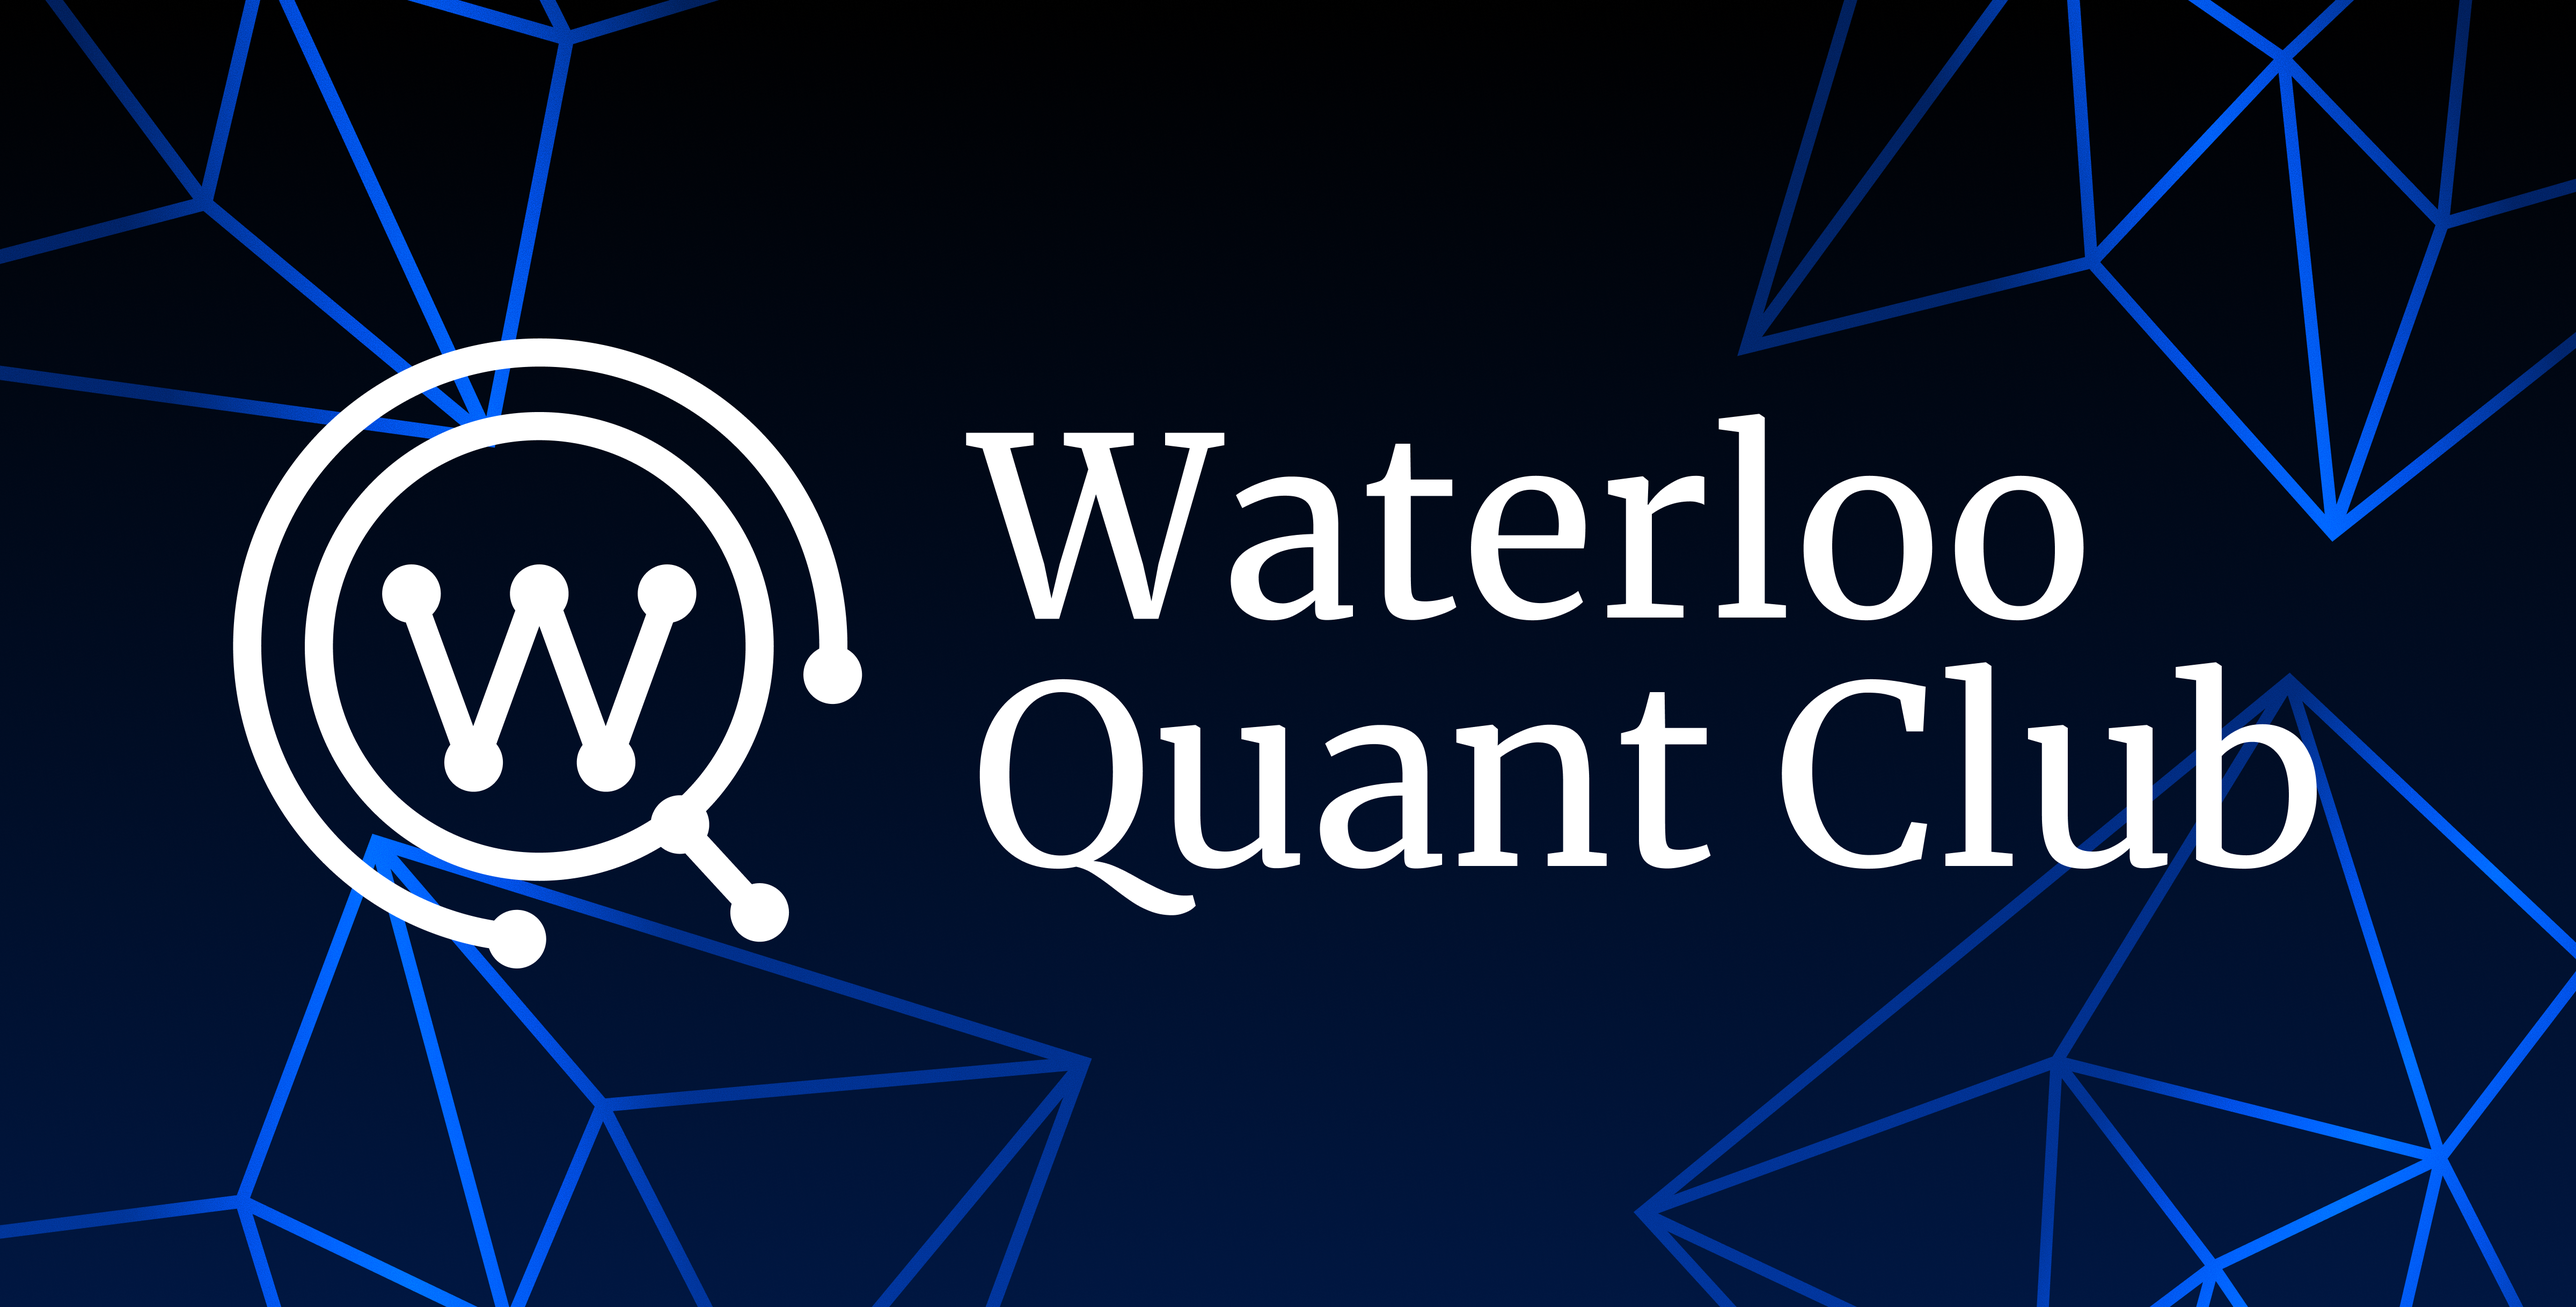
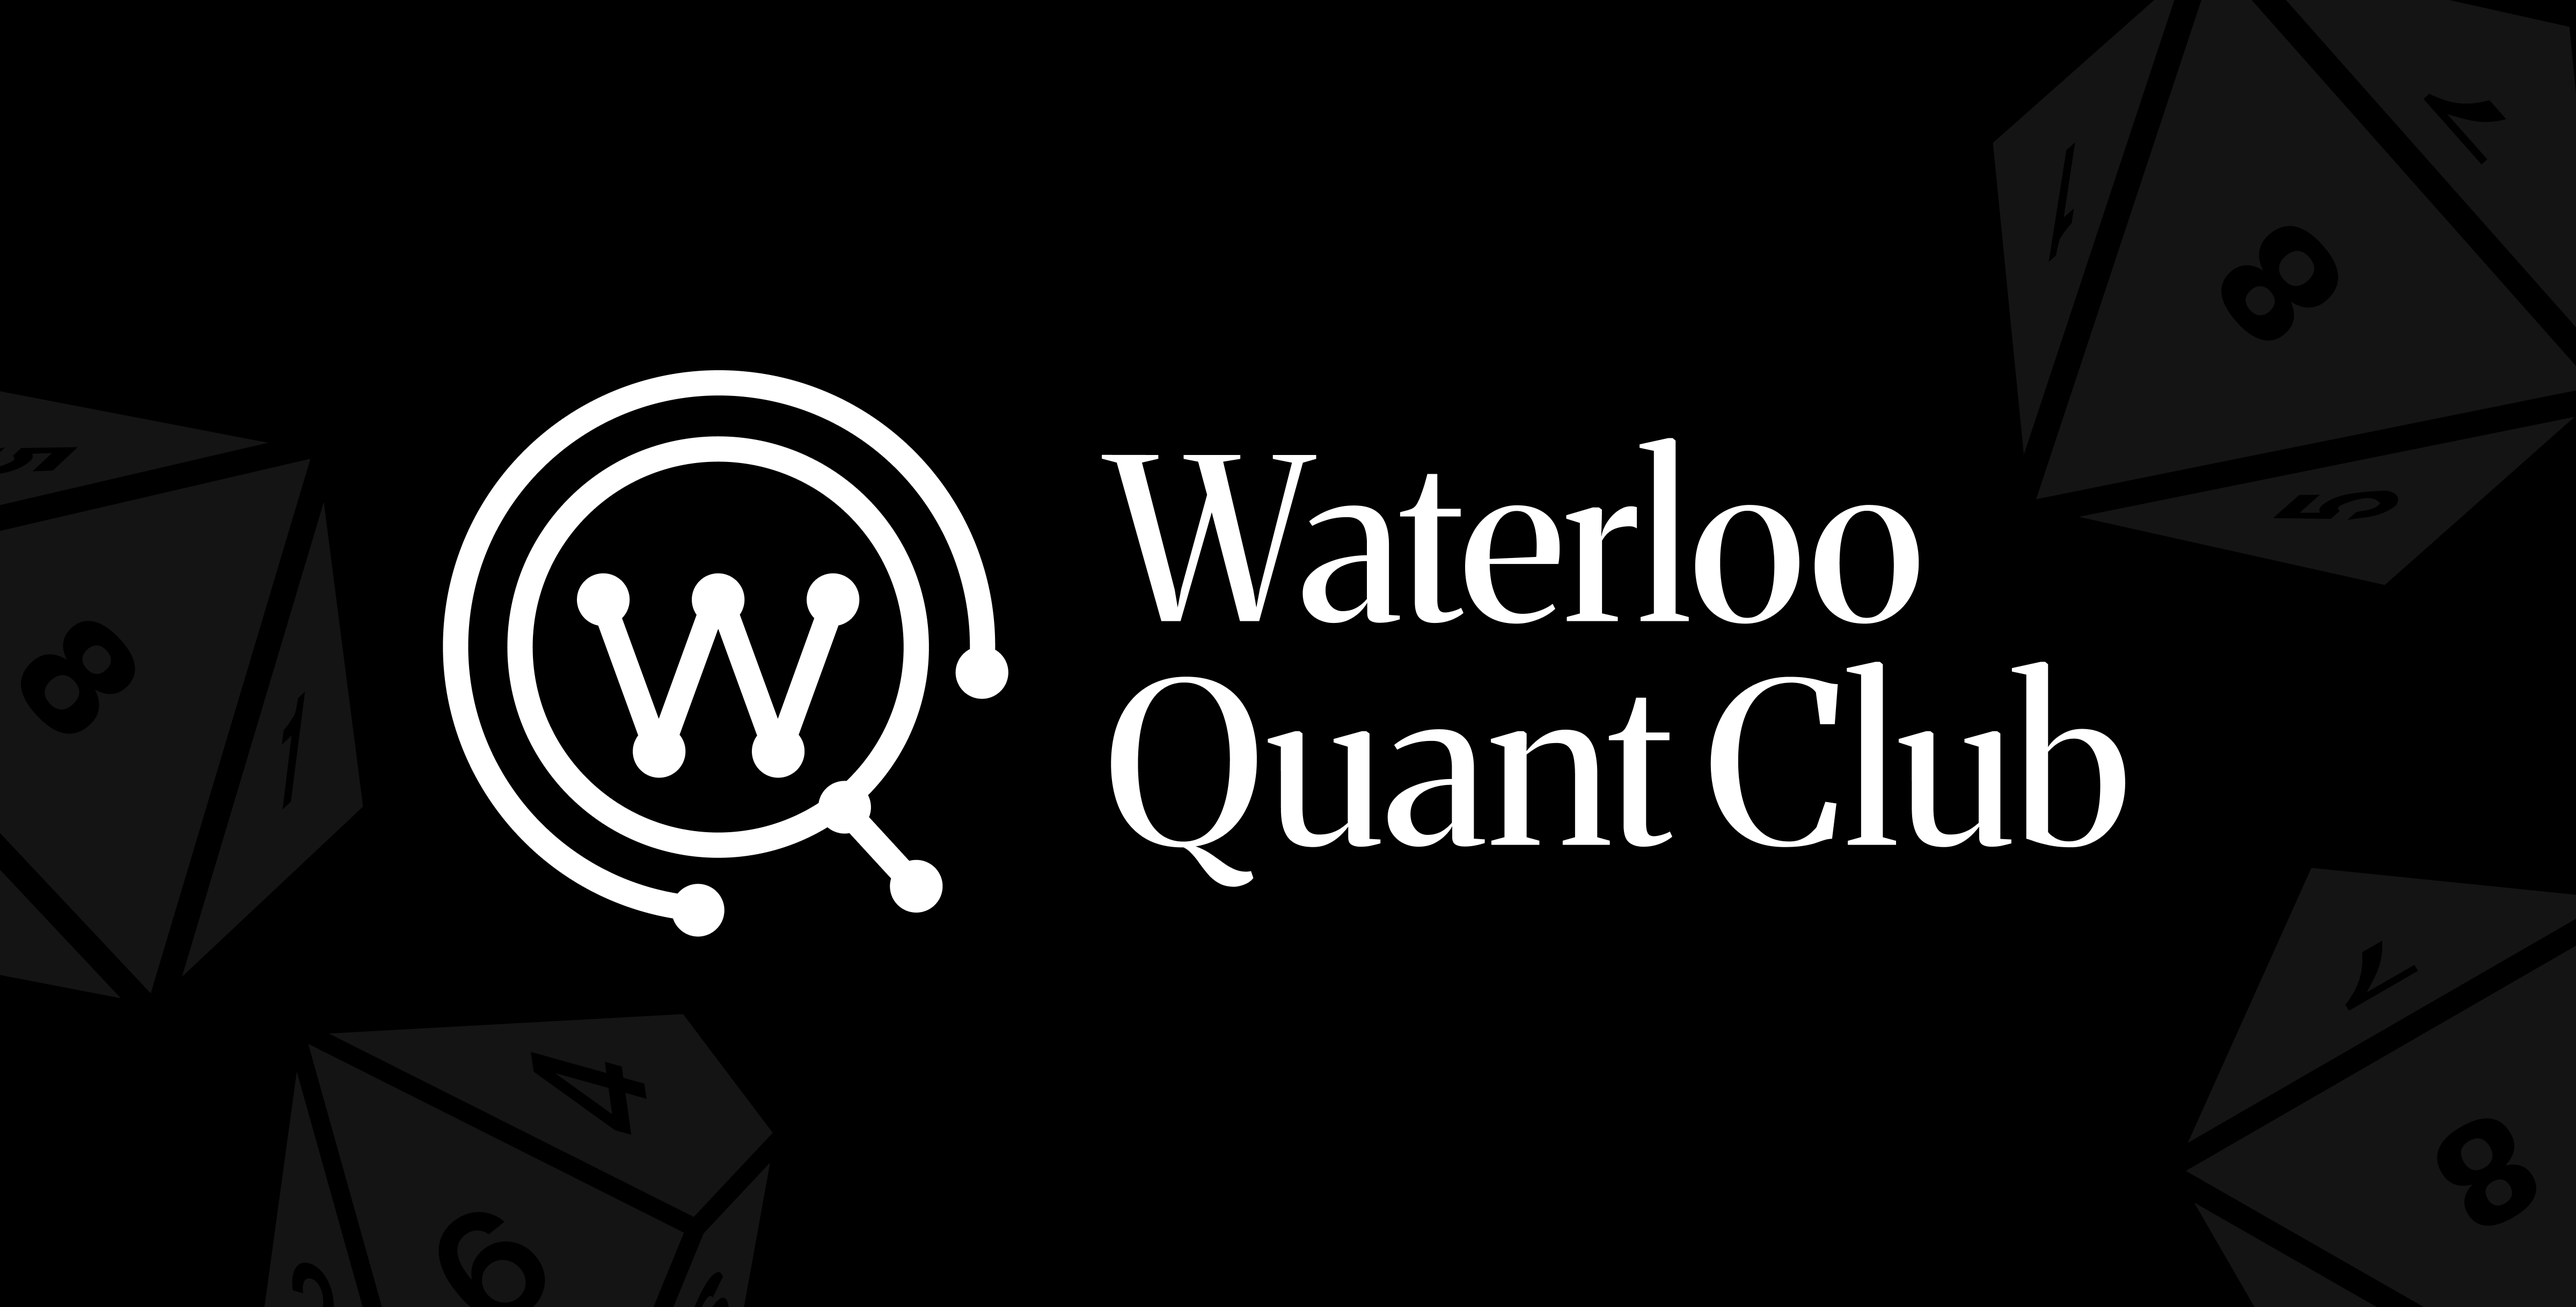
updated wqc page

diff --git a/src/components/Gallery.tsx b/src/components/Gallery.tsx
@@ -2,15 +2,16 @@
 import React, { useState, useRef, useEffect } from "react";
 import Image from "next/image";
 import { useSwipeable } from "react-swipeable";
-import Left from "@/assets/left.svg"; 
-import Right from "@/assets/right.svg"; 
+import Left from "@/assets/left.svg";
+import Right from "@/assets/right.svg";
 import X from "@/assets/x.svg";
 
 interface ImageGalleryProps {
   images: string[];
+  columns?: 2 | 3;
 }
 
-const ImageGallery: React.FC<ImageGalleryProps> = ({ images }) => {
+const ImageGallery: React.FC<ImageGalleryProps> = ({ images, columns = 3 }) => {
   const [selectedIndex, setSelectedIndex] = useState<number | null>(null);
   const [transitioning, setTransitioning] = useState<boolean>(false);
   const carouselRef = useRef<HTMLDivElement>(null);
@@ -27,7 +28,8 @@ const ImageGallery: React.FC<ImageGalleryProps> = ({ images }) => {
     if (selectedIndex !== null && !transitioning) {
       setTransitioning(true);
       setTimeout(() => {
-        const prevIndex = selectedIndex === 0 ? images.length - 1 : selectedIndex - 1;
+        const prevIndex =
+          selectedIndex === 0 ? images.length - 1 : selectedIndex - 1;
         setSelectedIndex(prevIndex);
         setTransitioning(false);
       }, 300);
@@ -38,7 +40,8 @@ const ImageGallery: React.FC<ImageGalleryProps> = ({ images }) => {
     if (selectedIndex !== null && !transitioning) {
       setTransitioning(true);
       setTimeout(() => {
-        const nextIndex = selectedIndex === images.length - 1 ? 0 : selectedIndex + 1;
+        const nextIndex =
+          selectedIndex === images.length - 1 ? 0 : selectedIndex + 1;
         setSelectedIndex(nextIndex);
         setTransitioning(false);
       }, 300);
@@ -62,7 +65,9 @@ const ImageGallery: React.FC<ImageGalleryProps> = ({ images }) => {
   }, [selectedIndex]);
 
   // Close modal if clicking outside the image or buttons
-  const handleOverlayClick = (e: React.MouseEvent<HTMLDivElement, MouseEvent>) => {
+  const handleOverlayClick = (
+    e: React.MouseEvent<HTMLDivElement, MouseEvent>,
+  ) => {
     if (e.target === e.currentTarget) {
       closeImage();
     }
@@ -78,7 +83,11 @@ const ImageGallery: React.FC<ImageGalleryProps> = ({ images }) => {
   return (
     <div>
       {/* Responsive Horizontal Scroll on Mobile, Grid on Larger Screens */}
-      <div className="flex lg:grid lg:grid-cols-3 scrollbar-hide gap-4 items-center overflow-x-auto lg:overflow-visible flex-nowrap lg:flex-wrap">
+      <div
+        className={`flex lg:grid ${
+          columns === 2 ? "lg:grid-cols-2" : "lg:grid-cols-3"
+        } scrollbar-hide gap-4 items-center overflow-x-auto lg:overflow-visible flex-nowrap lg:flex-wrap`}
+      >
         {images.map((image, index) => (
           <div
             key={index}
@@ -113,9 +122,14 @@ const ImageGallery: React.FC<ImageGalleryProps> = ({ images }) => {
             <X className="h-4 w-4 md:h-5 md:w-5 fill-current" />
           </button>
 
-          <div className="relative w-full lg:w-auto overflow-hidden" ref={carouselRef}>
+          <div
+            className="relative w-full lg:w-auto overflow-hidden"
+            ref={carouselRef}
+          >
             {/* Image with smooth transition */}
-            <div className={`transition-opacity duration-500 ${transitioning ? "opacity-0" : "opacity-100"}`}>
+            <div
+              className={`transition-opacity duration-500 ${transitioning ? "opacity-0" : "opacity-100"}`}
+            >
               <Image
                 src={images[selectedIndex]}
                 alt={`Image ${selectedIndex}`}

diff --git a/src/app/design/wqc/page.tsx b/src/app/design/wqc/page.tsx
@@ -62,6 +62,17 @@ const fallInstagram = [
   "/wqc-fall-ig-5.png",
 ];
 
+const fall26Instagram = [
+  "/wqc_f26_1.png",
+  "/wqc_f26_2.png",
+  "/wqc_f26_3.png",
+  "/wqc_f26_4.png",
+];
+
+const fall26Assets = ["/wqc_f26_assets.png"];
+
+const fall26Sponsors = ["/wqc_sponsors_old.png", "/wqc_sponsors_new.png"];
+
 export default function WaterlooQuantClub() {
   return (
     <div className="relative">
@@ -83,6 +94,74 @@ export default function WaterlooQuantClub() {
             </p>
           </div>
         </FadeInSection>
+
+        {/* FALL 2026 */}
+        <ProjectSection
+          eyebrow="Fall 2026"
+          title="Evolving the Visual Identity"
+        >
+          <div className="space-y-16">
+            {/* Description */}
+            <div className="max-w-3xl mx-auto text-center">
+              <p className="text-white/75">
+                Expanded the club's visual identity with a more playful,
+                game-inspired direction. The new aesthetic uses a primarily
+                greyscale palette paired with dice, playing cards, and other
+                game elements to create a distinct look while keeping the
+                overall brand clean and cohesive.
+              </p>
+            </div>
+
+            {/* Visual Assets */}
+            <div>
+              <h3 className="text-xl font-medium mb-4 text-center">
+                Visual Assets
+              </h3>
+
+              <p className="text-white/70 text-center max-w-3xl mx-auto mb-6">
+                Created a reusable set of minimal, game-inspired assets to
+                establish a consistent visual language across social media and
+                the website.
+              </p>
+
+              <SoloImage
+                src={fall26Assets[0]}
+                alt="Fall 2026 Waterloo Quant Club visual assets featuring dice and playing cards"
+              />
+            </div>
+
+            {/* Instagram */}
+            <div>
+              <h3 className="text-xl font-medium mb-4 text-center">
+                Instagram Graphics
+              </h3>
+
+              <p className="text-white/70 text-center max-w-3xl mx-auto mb-6">
+                Applied the new visual direction across social media while
+                adapting the system to different events and content.
+              </p>
+
+              <ImageGallery images={fall26Instagram} />
+            </div>
+
+            {/* Sponsors Page */}
+            <div>
+              <h3 className="text-xl font-medium mb-4 text-center">
+                Sponsors Page Redesign
+              </h3>
+
+              <p className="text-white/70 text-center max-w-3xl mx-auto mb-8">
+                Redesigned the sponsors page with a cleaner, more spacious
+                layout and clearer visual hierarchy. Replaced the previous boxed
+                layout with a more open design and introduced playing card suits
+                to represent each sponsorship tier, bringing the page in line
+                with the club's new game-inspired aesthetic.
+              </p>
+
+              <ImageGallery images={fall26Sponsors} columns={2} />
+            </div>
+          </div>
+        </ProjectSection>
 
         {/* BRANDING */}
         <ProjectSection eyebrow="Foundation" title="Brand Identity">

diff --git a/src/app/design/page.tsx b/src/app/design/page.tsx
@@ -12,7 +12,7 @@ const projects = [
     imageUrl: "/wqc.png",
     slug: "wqc",
     tags: ["Branding", "Social Media", "UI/UX"],
-    updatedAt: "2026-02-08",
+    updatedAt: "2026-09-28",
   },
   {
     name: "Personal Portfolio",
